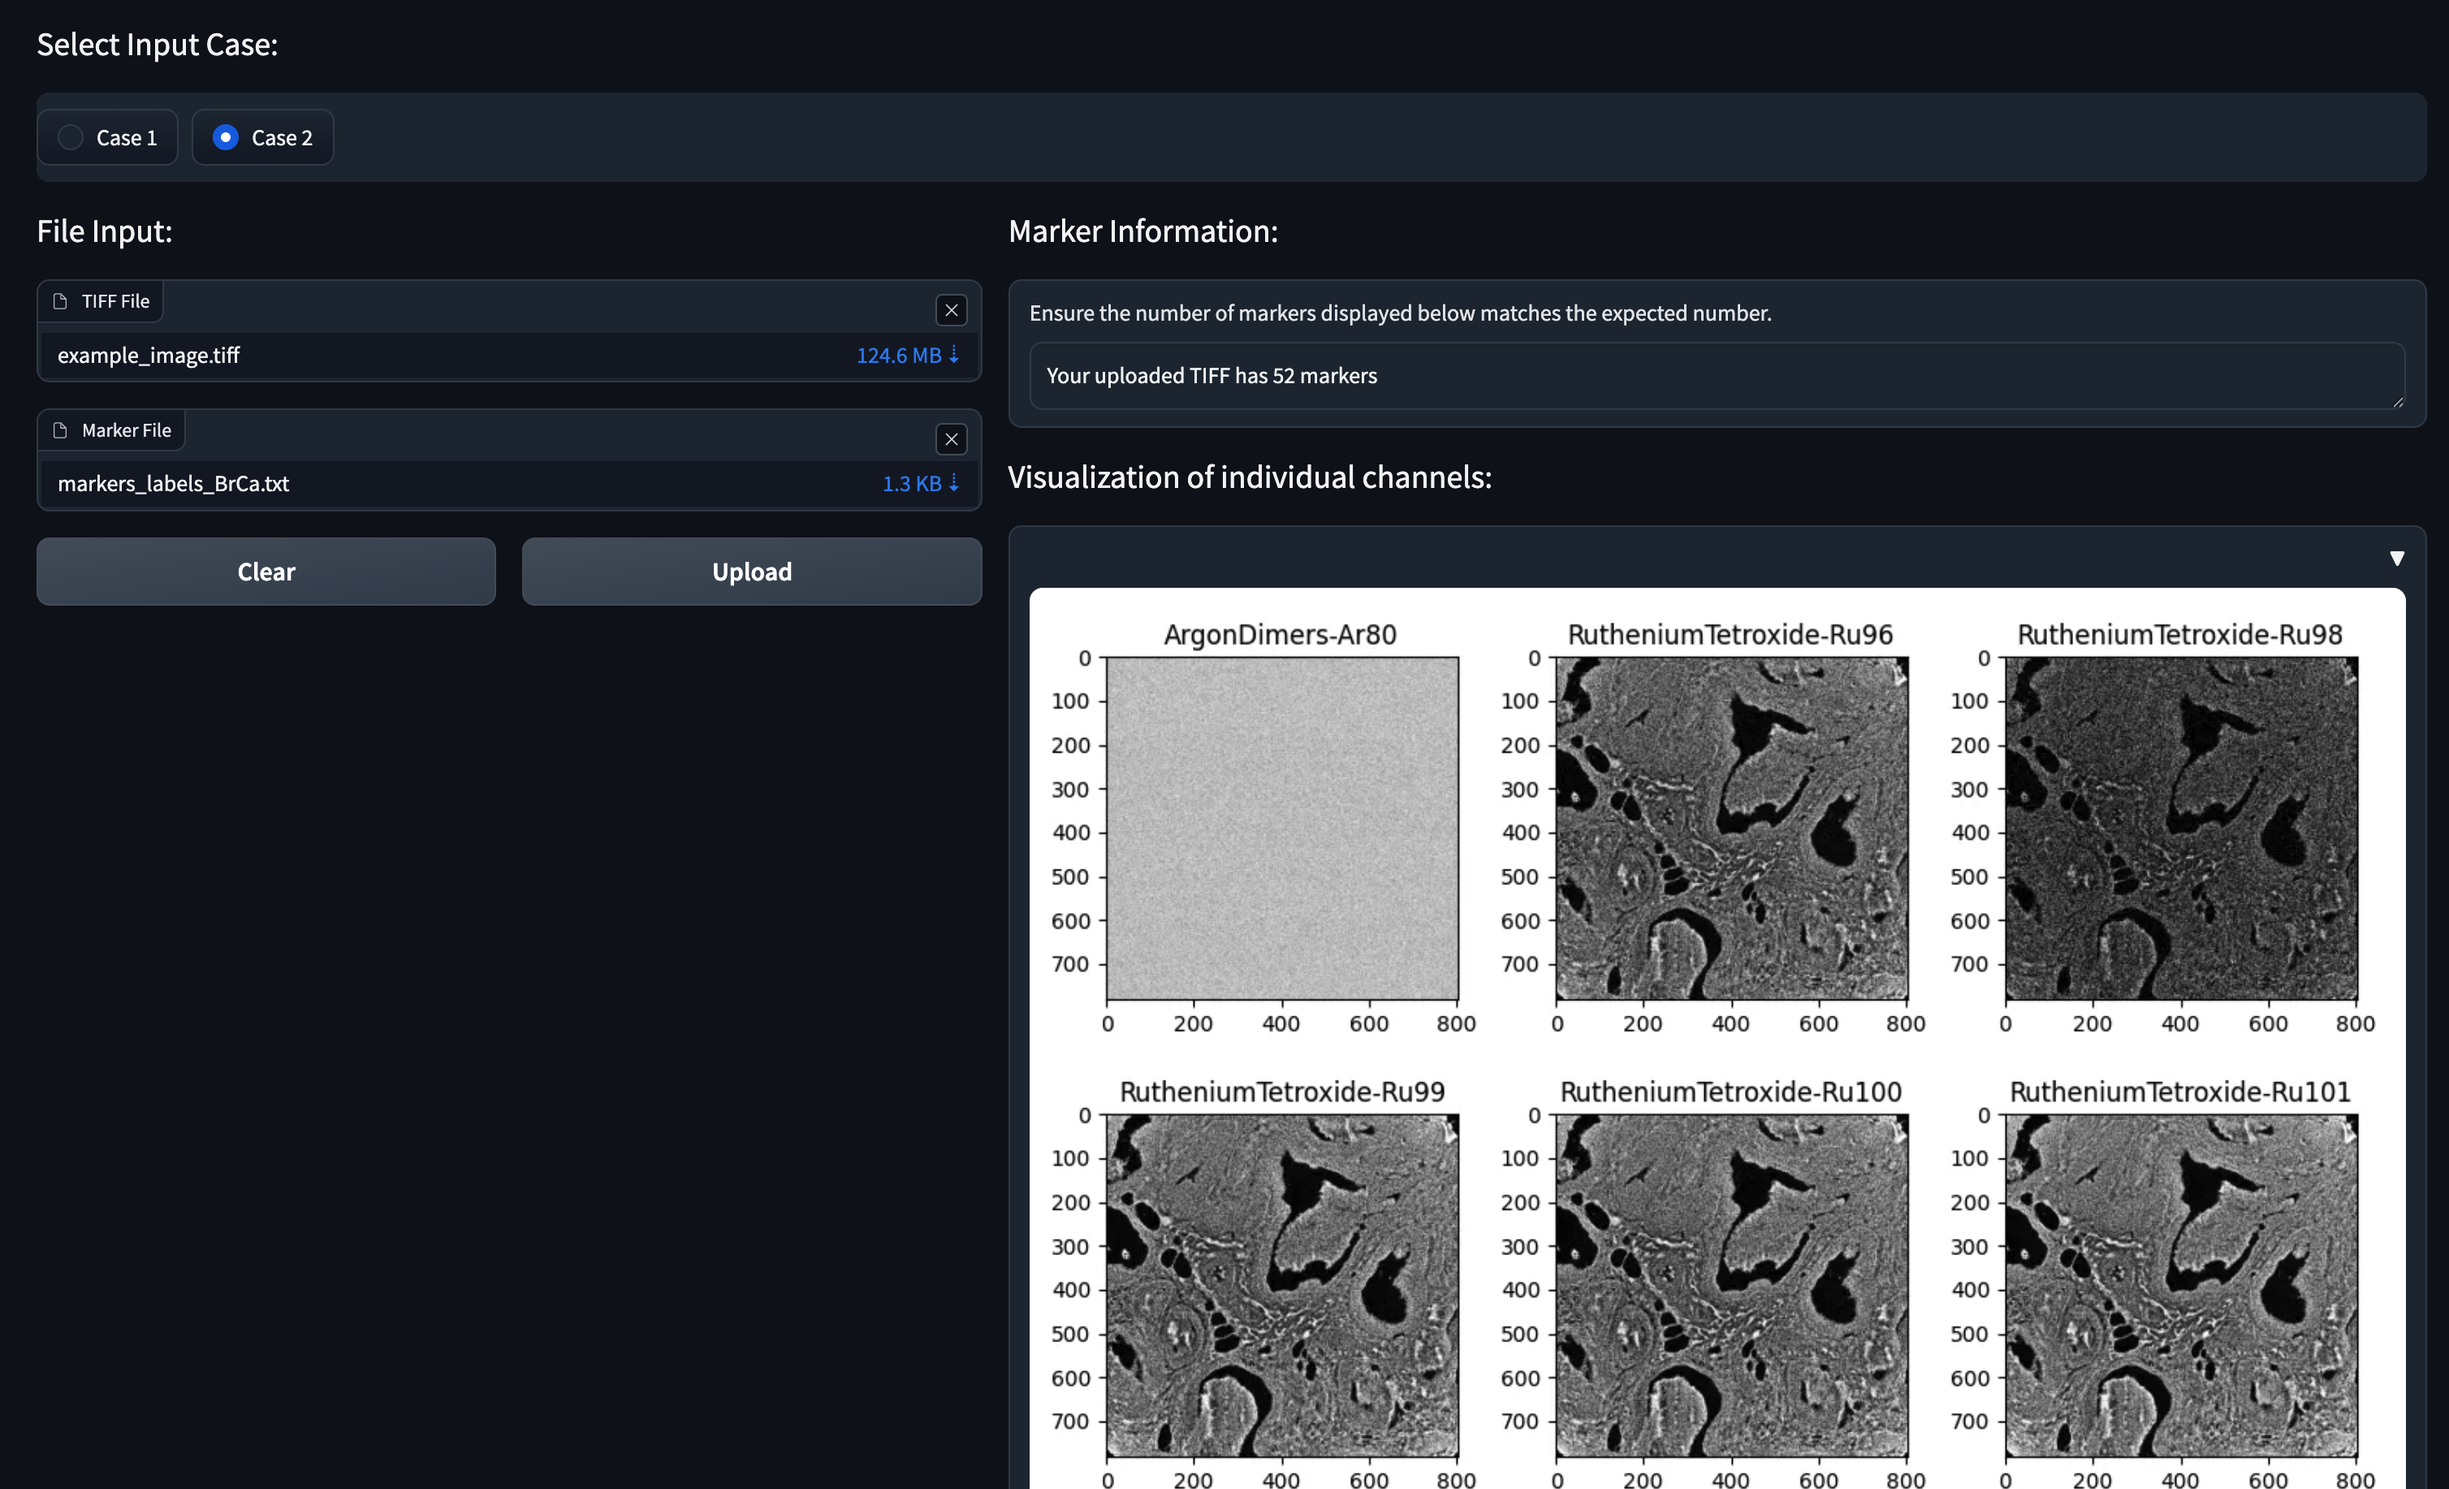
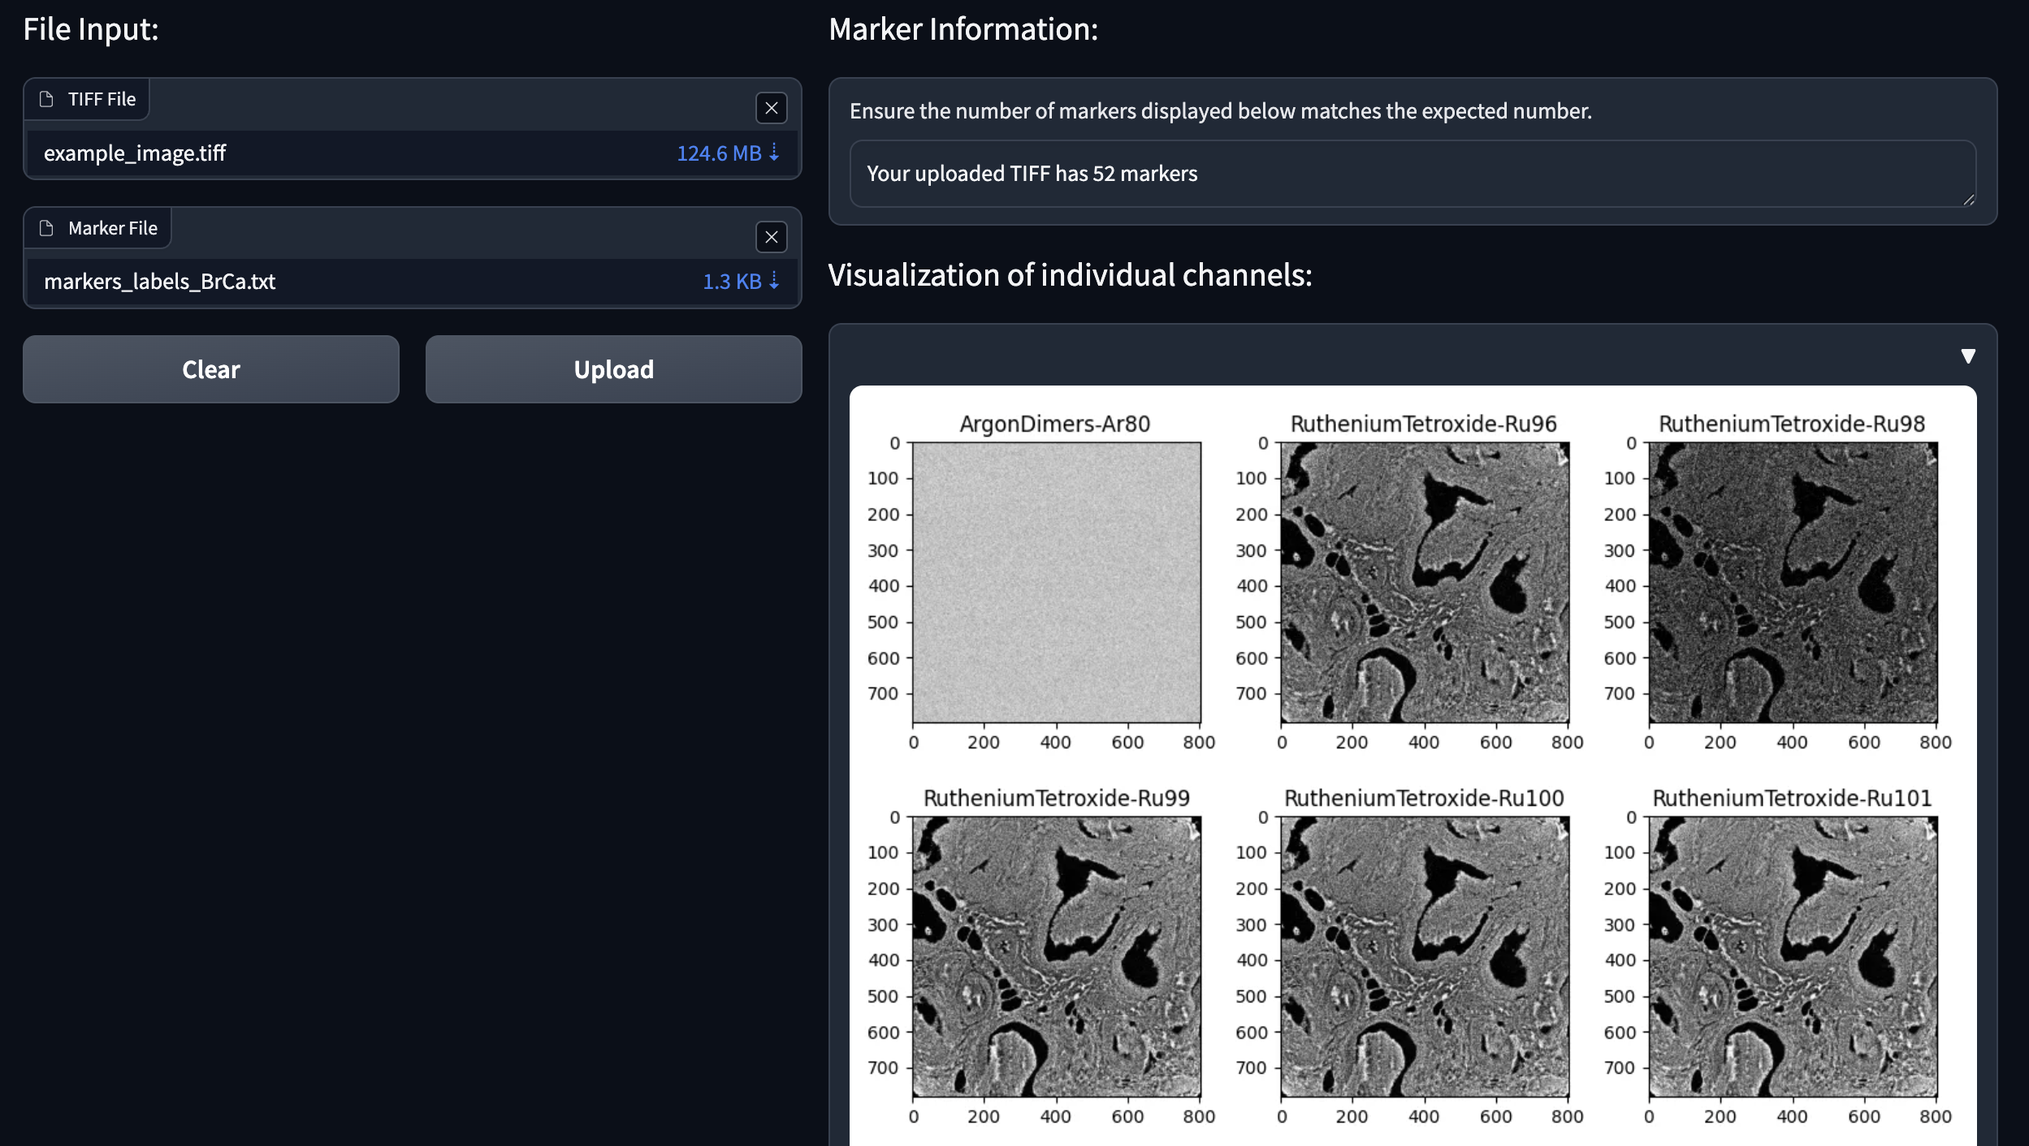
polish abstract in README

diff --git a/README.md b/README.md
@@ -1,7 +1,9 @@
 ![QBRC logo](doc_img/qbrc.jpeg)
 
 # Introduction
-**Multi**plexed **T**issue **A**nalysis **P**latform (MultiTAP) is an open-source Python package designed for analyzing multiplexed tissue images. Package functionalities include the quantification of single-cell biomarkers, cell type clustering, and the analysis of cell-cell interactions. MultiTAP addresses a critical gap between the existing software landscape and the exponentially increasing volume of multiplexed tissue image data, by providing comprehensive and user-friendly tools tailored specifically for analyzing multiplexed data representations. Compared with previous software, MultiTAP offers unique features and advantages. It incorporates a cell segmentation algorithm guided by cytoplasm membrane labels, provides downstream analysis methods such as data normalization and automatic identification of marker-positive cells, and enables co-expression and cell-cell spatial interaction analysis. Moreover, MultiTAP offers the convenience of end-to-end analysis with a GUI for users from diverse backgrounds. 
+**Multi**plexed **T**issue **A**nalysis **P**latform (MultiTAP) is an open-source Python package designed to analyze high-dimensional tissues at scale. This framework integrates cell segmentation, biomarker quantification, phenotyping, and spatial analysis. Designed for IMC data, we show that MultiTAP is easily extendable to other modalities such as multiplexed IHC assays. We benchmark its segmentation performance against state-of-the-art methods on an IMC dataset and characterize the spatial and co-localization patterns of epithelial cells in breast carcinomas. Finally, we demonstrate the broad applicability of MultiTAP by applying the framework to a large non-small cell lung cancer (NSCLC) cohort, where the platform identifies cancer-associated fibroblast (CAF) interactions with prognostic relevance.
+
+MultiTAP is available as a HuggingFace :hugs: Space, by Jupyter Notebook, and by command line.
 
 A workflow of MultiTAP is shown here: <img src="doc_img/workflow.png" alt="workflow">
 
